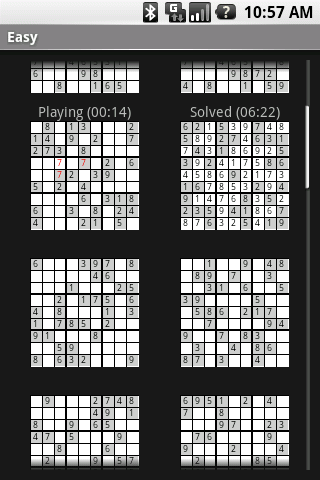
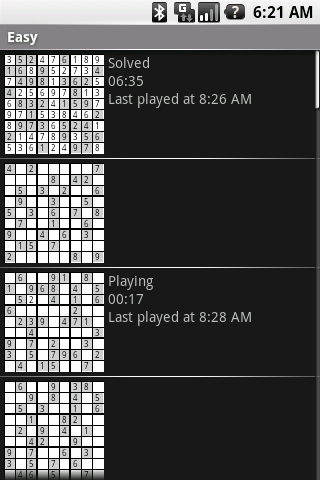
Fixes the invalid db state bug on sudoku list.

diff --git a/OpenSudoku/src/cz/romario/opensudoku/gui/SudokuListActivity.java b/OpenSudoku/src/cz/romario/opensudoku/gui/SudokuListActivity.java
@@ -51,6 +51,7 @@ public class SudokuListActivity extends ListActivity {
 			.getTimeInstance(DateFormat.SHORT);
 
 	private SimpleCursorAdapter adapter;
+	private Cursor cursor;
 
 	private long folderID;
 
@@ -76,14 +77,14 @@ public class SudokuListActivity extends ListActivity {
 
 		setTitle(sudokuDB.getFolderName(folderID));
 
-		// Cursor cursor = sudokuDB.getSudokuList(folderID);
-		// startManagingCursor(cursor);
 
 		timeText = new StringBuilder();
 		gameTimeFormatter = new Formatter(timeText);
 
+		cursor = sudokuDB.getSudokuList(folderID);
+		startManagingCursor(cursor);
 		adapter = new SimpleCursorAdapter(this, R.layout.sudoku_list_item,
-				null, new String[] { SudokuColumns.DATA, SudokuColumns.STATE,
+				cursor, new String[] { SudokuColumns.DATA, SudokuColumns.STATE,
 						SudokuColumns.TIME, SudokuColumns.LAST_PLAYED,
 						SudokuColumns.CREATED, SudokuColumns.PUZZLE_NOTE },
 				new int[] { R.id.sudoku_board, R.id.state, R.id.time,
@@ -173,25 +174,15 @@ public class SudokuListActivity extends ListActivity {
 					label.setText(note);
 					break;
 				}
+				
 				return true;
 			}
 		});
 
-		// setContentView(R.layout.sudoku_list);
-		// sudokuList = (GridView)findViewById(R.id.sudoku_grid);
-		// sudokuList.setOnCreateContextMenuListener(this);
-		// sudokuList.setOnItemClickListener(sudokuListItemListener);
-		// sudokuList.setAdapter(adapter);
-		fillData();
 		setListAdapter(adapter);
 	}
-
-	private void fillData() {
-		SudokuDatabase db = new SudokuDatabase(this);
-		Cursor cursor = db.getSudokuList(folderID);
-		startManagingCursor(cursor);
-		adapter.changeCursor(cursor);
-	}
+	
+	
 
 	private String getTime(long time) {
 		timeText.setLength(0);
@@ -259,7 +250,7 @@ public class SudokuListActivity extends ListActivity {
 								SudokuDatabase db = new SudokuDatabase(
 										SudokuListActivity.this);
 								db.deleteSudoku(sudokuToDeleteId);
-								fillData();
+								cursor.requery();
 							}
 						}).setNegativeButton("No", null).create();
 
@@ -288,7 +279,7 @@ public class SudokuListActivity extends ListActivity {
 									game.reset();
 									db.updateSudoku(game);
 								}
-								fillData();
+								cursor.requery();
 							}
 						}).setNegativeButton("No", null).create();
 
@@ -323,7 +314,7 @@ public class SudokuListActivity extends ListActivity {
 								gameToUpdate.setNote(noteInput.getText()
 										.toString());
 								db.updateSudoku(gameToUpdate);
-								fillData();
+								cursor.requery();
 							}
 						}).setNegativeButton("Cancel", null).create();
 
